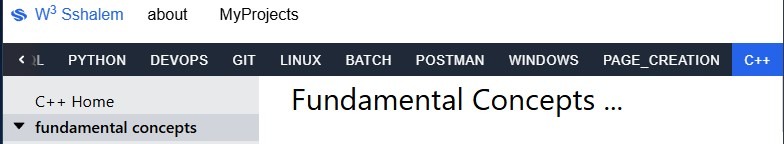
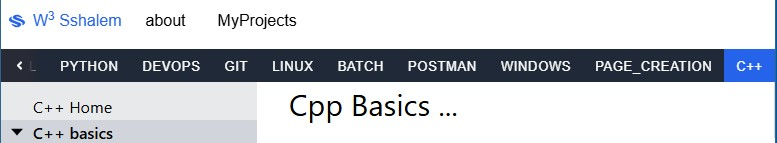
08-10-2025  0:41

diff --git a/src/pages/PageCreate/PageCreateComponents/SpecificationDocsPkg/CreateStepsSection/CreateStep7.tsx b/src/pages/PageCreate/PageCreateComponents/SpecificationDocsPkg/CreateStepsSection/CreateStep7.tsx
@@ -8,17 +8,17 @@ import page_create_16 from "../../../../../assets/page_create_16.jpg";
 const CreateStep7 = ({ anchor }: { anchor: string }) => {
   return (
     <MainChildArea anchor={anchor}>
-      As <Span>DropDownFundamentalConcepts</Span> implies , once the section is clicked, it dropped's down, then I should see a list of subjects which
-      are internal <Span>Links</Span> of <Span>DropDownFundamentalConcepts</Span>.
+      As <Span>DropDownCppBasics</Span> implies , once the section is clicked, it dropped's down, then I should see a list of subjects which are
+      internal <Span>Links</Span> of <Span>DropDownCppBasics</Span>.
       <ul className="my-4 ml-8 list-disc">
         <li className="my-1">
-          In this section I will add a subject to the <Span>DropDownFundamentalConcepts</Span> section
+          In this section I will add a <Span>internal Link</Span> (subject) to the <Span>DropDownCppBasics</Span> section
         </li>
         <li className="my-1">
-          Subject <Span>Link</Span> name I create <Span>Pointers</Span>
+          Subject <Span>Link</Span> name I create <Span>Functions</Span>
         </li>
         <li className="my-1">
-          (<strong>NOTE : </strong> I made here only one <Span>Link</Span> (subject) , but I can have multple subjects).
+          (<strong>NOTE : </strong> I made here only one <Span>Link</Span> (subject) , but I can have multiple subjects).
         </li>
       </ul>
       <IMG img_name={page_create_16}></IMG>
@@ -27,17 +27,17 @@ const CreateStep7 = ({ anchor }: { anchor: string }) => {
         <strong>
           steps to add a
           <span className="mx-2 text-blue-600">
-            <strong>Pointers</strong>
+            <strong>Functions</strong>
           </span>
           Subject to the Drop Down List :
         </strong>
 
         <ul className="my-4 ml-8 list-decimal">
           <li className="my-1">
-            create <Span>PointersSections</Span> folder , inside <Span>/pages/CPlusPlus/CPlusPlusComponents/FundamentalConceptsPkg</Span> folder
+            create <Span>FunctionsSections</Span> folder , inside <Span>/pages/Cpp/CppComponents/CppBasicsPkg</Span> folder
           </li>
           <li className="my-1">
-            create <Span>PointersMain</Span> component , inside <Span>PointersSections</Span> folder
+            create <Span>PointersMain</Span> component , inside <Span>FunctionsSections</Span> folder
           </li>
           <div className="my-2">Folder layout :</div>
           <IMG img_name={page_create_13}></IMG>
@@ -58,7 +58,7 @@ const CreateStep7 = ({ anchor }: { anchor: string }) => {
 
           <JsxHighlight jsxCode={jsxCode_App_with_pointers} />
           <li className="my-1">
-            go to <Span>DropDownFundamentalConcepts.tsx</Span> in folder <Span>DropCPlusPlus</Span>
+            go to <Span>DropDownFundamentalConcepts.tsx</Span> in folder <Span>DropCpp</Span>
           </li>
           <li className="my-1">
             copy the code below ( It's template of <Span>Z_DropDownIncludeInternalLink.tsx</Span>) and paste it
@@ -190,9 +190,9 @@ const jsxCode_App_with_pointers = `      path: "/",
         { index: true, element: <Home /> },
         {
           path: "c++",
-          element: <C_plus_plus_page />,
+          element: <Cpp_page />,
           children: [
-            { index: true, element: <CPlusPlusHome /> },
+            { index: true, element: <CppHome /> },
             {
               path: "fundamental-concepts",
               element: <FundamentalConcepts />,

diff --git a/src/pages/PageCreate/PageCreateComponents/SpecificationDocsPkg/CreateStepsSection/CreateStep6.tsx b/src/pages/PageCreate/PageCreateComponents/SpecificationDocsPkg/CreateStepsSection/CreateStep6.tsx
@@ -10,7 +10,7 @@ const CreateStep6 = ({ anchor }: { anchor: string }) => {
     <MainChildArea anchor={anchor}>
       <article>
         In this section , I will add the sidebar nav links with <Span>DropDownXXXX</Span> component. <div className="my-2"></div>
-        <strong>example</strong> :<Span>DropDownFundamentalConcepts.tsx</Span> to show <Span>Fundamental Concepts</Span> as a link
+        <strong>example</strong> :<Span>DropDownCppBasics.tsx</Span> to show <Span>C++ Basics</Span> as an link
         <IMG img_name={page_create_11}></IMG>
         <br />
         <strong>follow the following steps:</strong>
@@ -19,10 +19,10 @@ const CreateStep6 = ({ anchor }: { anchor: string }) => {
             Go to <Span>/pages/Cpp/CppComponents</Span> folder.
           </li>
           <li className="my-1">
-            Create new folder <Span>FundamentalConceptsPkg</Span>.
+            Create new folder <Span>CppBasicsPkg</Span>.
           </li>
           <li className="my-1">
-            Create new Component <Span>FundamentalConcepts.tsx</Span> inside <Span>FundamentalConceptsPkg</Span>.
+            Create new Component <Span>CppBasics.tsx</Span> inside <Span>CppBasicsPkg</Span>.
             <div className="my-2">
               <strong>folder view :</strong>
             </div>

diff --git a/src/App.tsx b/src/App.tsx
@@ -59,7 +59,7 @@ import {
   WebPageComponent,
 } from "./pages/PageCreate/PageCreateComponents";
 
-import { CppHome, PointersMain, FundamentalConcepts } from "./pages/Cpp/CppComponents";
+import { CppHome, PointersMain, FundamentalConcepts, CppBasics, FunctionsMain } from "./pages/Cpp/CppComponents";
 
 import { JsxMain, ReactBasics, ReactJSHome } from "./pages/ReactJS/ReactJSComponents";
 import { JavaBasics, JavaHome, ArrayMain } from "./pages/Java/JavaComponents";
@@ -81,8 +81,8 @@ const router = createBrowserRouter(
             { index: true, element: <CppHome /> },
             {
               path: "cpp-basics",
-              element: <FundamentalConcepts />,
-              children: [{ path: "functions", element: <PointersMain /> }],
+              element: <CppBasics />,
+              children: [{ path: "functions", element: <FunctionsMain /> }],
             },
             {
               path: "fundamental-concepts",

diff --git a/src/pages/Cpp/CppComponents/index.ts b/src/pages/Cpp/CppComponents/index.ts
@@ -1,3 +1,5 @@
 export { default as CppHome } from "./CppHome";
-export { default as FundamentalConcepts } from "./FundamentalConceptsPkg/FundamentalConcepts";
+export { default as CppBasics } from "./CppBasicsPkg/CppBasics";
+export { default as FunctionsMain } from "./CppBasicsPkg/FunctionsSections/FunctionsMain";
 export { default as PointersMain } from "./FundamentalConceptsPkg/PointersSections/PointersMain";
+export { default as FundamentalConcepts } from "./FundamentalConceptsPkg/FundamentalConcepts";

diff --git a/src/pages/Cpp/CppComponents/CppBasicsPkg/CppBasics.tsx b/src/pages/Cpp/CppComponents/CppBasicsPkg/CppBasics.tsx
@@ -1,5 +1,9 @@
+import { Outlet, useLocation } from "react-router-dom";
+
 const CppBasics = () => {
-  return <div>CppBasics</div>;
+  let location = useLocation();
+
+  return <section>{location.pathname === "/c++/cpp-basics" ? <div className="text-3xl">Cpp Basics ...</div> : <Outlet />}</section>;
 };
 
 export default CppBasics;

diff --git a/src/pages/Cpp/CppComponents/CppBasicsPkg/FunctionsSections/FunctionsMain.tsx b/src/pages/Cpp/CppComponents/CppBasicsPkg/FunctionsSections/FunctionsMain.tsx
@@ -1,0 +1,4 @@
+const FunctionsMain = () => {
+  return <div>Functions Main ...</div>;
+};
+export default FunctionsMain;
